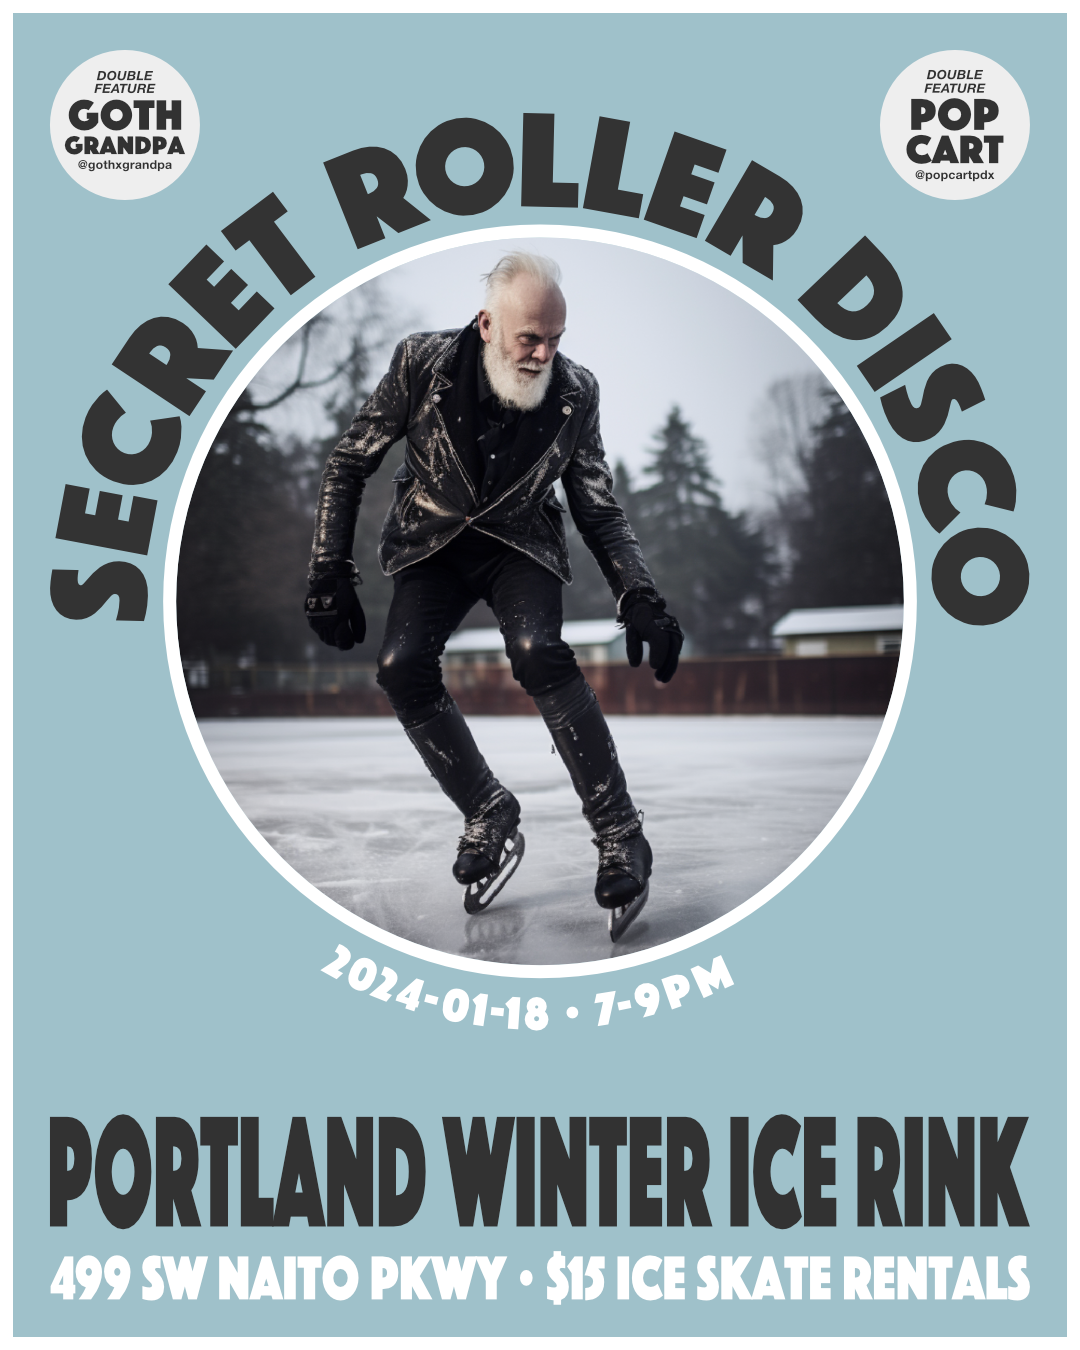
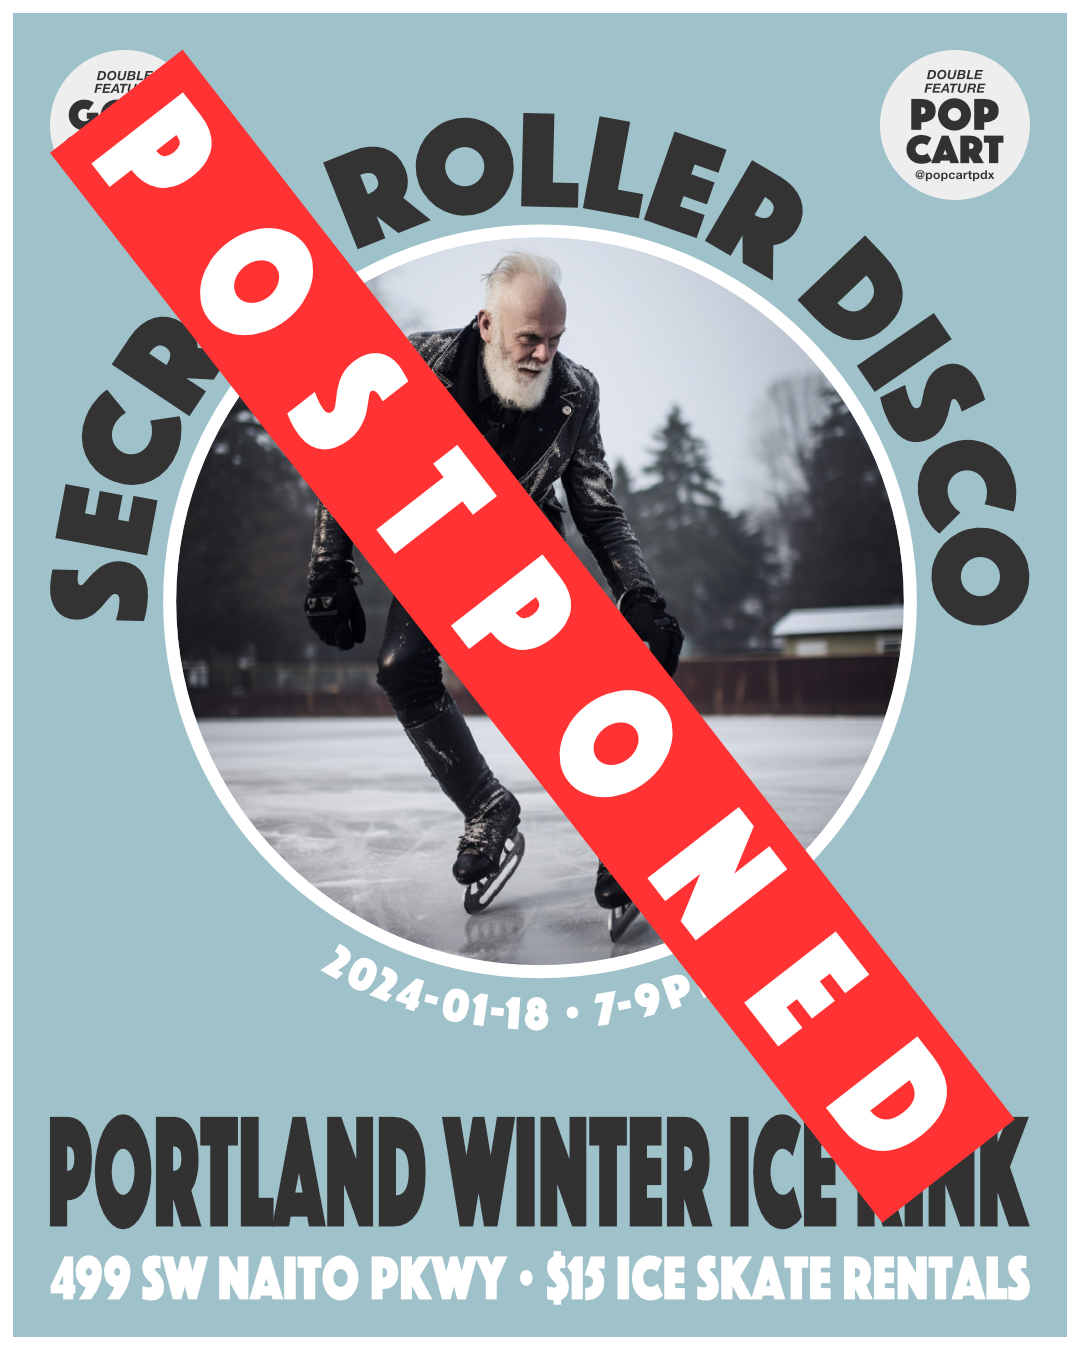
disco postponed

Changed region(s): [[0.0306, 0.0311, 0.9472, 0.9022]]

diff --git a/_posts/2024-01-18-winter-ice-rink.md b/_posts/2024-01-18-winter-ice-rink.md
@@ -1,14 +1,12 @@
 ---
 layout: default
 time: 7 to 9pm
-rentals: true
-theme: Goth Grandpa
+rentals: false
+theme: ⚠ POSTPONED ⚠
 djs:
-  - name: GothxGrandpa
-    link: https://www.instagram.com/gothxgrandpa
-  - name: PopCartPDX
-    link: https://www.instagram.com/popcartpdx
+  - name: POSTPONED
+    link:
 
-alt: This is a super special ice skating edition of Secret Roller Disco being held at the Portland Winter Ice Rink! There will be $15 ice skate rentals available.
+alt: ‼ POSTPONED. UPDATES SOON. ‼
 map:
 ---
